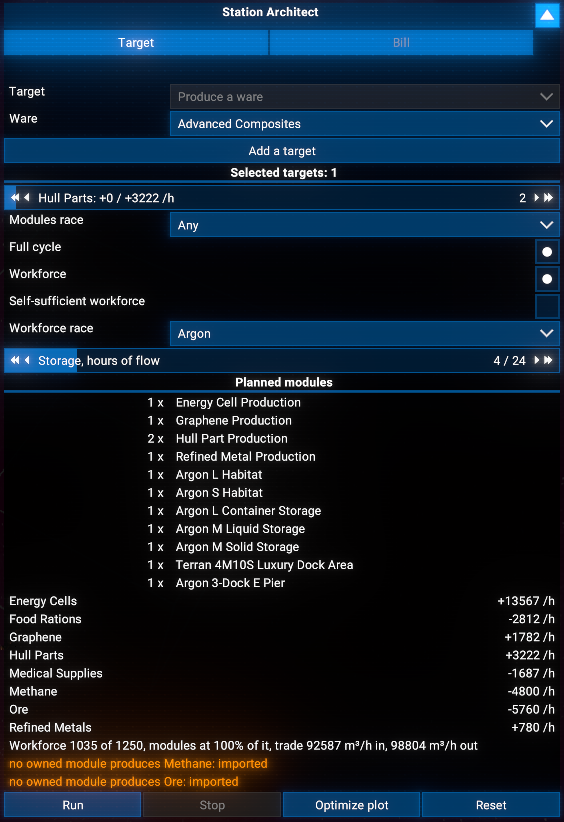
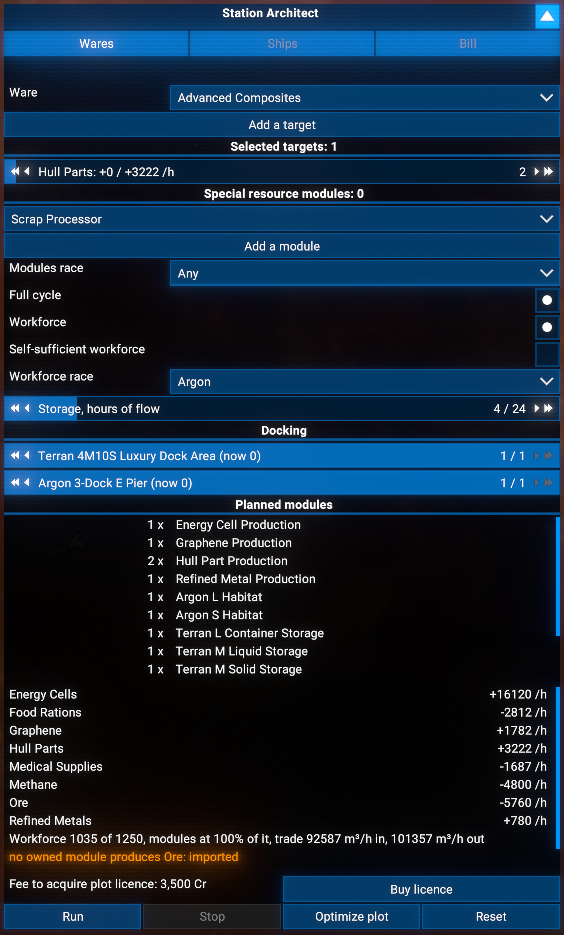
docs: README for 1.20 with screenshots retaken on 9.00
- Usage rewritten for the Wares, Ships and Bill tabs: build module counts,
  ships and resupplies per hour per size, the Docking sliders, and a Run
  section with the turns and the placement restart
- Features, Limitations and the Extra Data API 1.02 requirement updated
- changelog entry renamed to 1.20, with Added and Changed lines for the
  Ships tab, the Docking section, the placement restart and the faster
  layout search
- screenshots retaken on 9.00: map context menu, map dialog, Wares tab
  (still panel_target.png), Bill tab, licence offer, run progress and the
  build menu during a run; new panel_ships.png for the Ships tab

diff --git a/README.md b/README.md
@@ -4,12 +4,13 @@ Tell the build menu what your station should produce or build: this extension wo
 
 ## Features
 
-- **Target planner**: say what the station should make (a ware, or ships to build or repair), not which modules; several targets in one plan.
+- **Target planner**: say what the station should make, not which modules: wares on the **Wares** tab, ships to build or resupply per hour on the **Ships** tab; several targets in one plan.
 - **Compact layout**: production, storage and habitats packed tight on connection modules; build modules on the sides with clear approach lanes; docks and piers outward.
 - **Full cycle and workforce**: optionally every intermediate ware down to raw resources and energy, habitats for the workforce, and its food and medicine.
-- **Read from the game**: production rates, sunlight and workforce bonuses, module sizes, docking bays and ship build times; docks sized for the planned traffic.
+- **Read from the game**: production rates, sunlight and workforce bonuses, module sizes, docking bays, ship build times and the production lines of every build module; docks sized for the planned traffic.
+- **Docking**: the dock areas and piers the planned trade needs, each count on a slider you can lower.
 - **Preview first**: modules, each ware's balance per hour, workforce and warnings before anything is placed.
-- **Existing stations**: reads what a station makes and fills any shortfall.
+- **Existing stations**: reads what a station makes and fills any shortfall, its docks included.
 - **From the map**: right-click empty space, **Plan a station here**, and the build menu opens with the run started.
 - **Bill route**: a manual list of modules and counts, placed the same way.
 - **Plot licence**: shows the plot size and price where the plot costs money; **Optimize plot** shrinks it afterwards.
@@ -23,7 +24,7 @@ Tell the build menu what your station should produce or build: this extension wo
 - Verified on the 8.00 and 9.00 builds of the game. On a build it does not recognise, the panel says the editor is not reachable and Run stays off; nothing else in the build menu changes.
 - The plot is limited to the game's 20 km: a layout that needs more is refused before anything is placed.
 - Ship build times assume the station has its build drones; a shipyard without them builds several times slower than planned.
-- A module that fits nowhere is reported as failed, never silently dropped.
+- A module the game's editor refuses is never dropped silently: the placement starts over once, and a second refusal removes every module placed.
 
 ## Requirements
 
@@ -40,7 +41,7 @@ Tell the build menu what your station should produce or build: this extension wo
 - **Lua Log API**: Version **1.00** or higher by [Chem O`Dun](https://next.nexusmods.com/profile/ChemODun/mods?gameId=2659).
   - Available on Steam: [Lua Log API](https://steamcommunity.com/sharedfiles/filedetails/?id=3823580916)
   - Available on Nexus Mods: [Lua Log API](https://www.nexusmods.com/x4foundations/mods/2473)
-- **Extra Data API**: Version **1.00** or higher by [Chem O`Dun](https://next.nexusmods.com/profile/ChemODun/mods?gameId=2659).
+- **Extra Data API**: Version **1.02** or higher by [Chem O`Dun](https://next.nexusmods.com/profile/ChemODun/mods?gameId=2659).
   - Available on Steam: [Extra Data API](https://steamcommunity.com/sharedfiles/filedetails/?id=3825599643)
   - Available on Nexus Mods: [Extra Data API](https://www.nexusmods.com/x4foundations/mods/2519)
 
@@ -55,28 +56,44 @@ Or you can do it via the Nexus Mods - [Station Architect](https://www.nexusmods.
 
 ## Usage
 
-Open the build menu of one of your stations. The Station Architect panel sits under the menu's title bar; expand it to plan. It has two tabs: **Target** and **Bill**.
+Open the build menu of one of your stations. The Station Architect panel sits under the menu's title bar; expand it to plan. It has three tabs: **Wares**, **Ships** and **Bill**. Wares and Ships edit one target, so one plan can make wares and build ships; the options and the docking under them are shared.
 
-### Target
+### Wares
 
-1. Pick the kind of target (**Produce a ware** or **Build or maintain ships**), then the ware or the build module, and press **Add a target**. Each added target gets a slider for its number of production or build modules; on an existing station a slider starts at what the station already has, and releasing it at that lowest value removes the target.
-   **Special resource modules** (Scrap Processors, fed by tugs rather than by trade): pick one and press **Add a module**; its slider sets how many the station has. With **Full cycle** their scrap metal feeds scrap recycling modules that make your target wares, and only the rest comes from regular production modules (a surplus is sold); without it the scrap metal is sold. Tugs bring their raw scrap straight to them, so it adds no docks, piers or storage.
+1. Pick a ware and press **Add a target**. Each added target gets a slider for its number of production modules, with the ware's net per hour now and planned; on an existing station a slider starts at what the station already has, and releasing it at that lowest value removes the target.
+   **Special resource modules** (Scrap Processors, fed by tugs rather than by trade) need **Full cycle**: pick one and press **Add a module**; its slider sets how many the station has. Their scrap metal feeds scrap recycling modules that make your target wares and your ships' wares, and only the rest comes from regular production modules (a surplus is sold). Tugs bring their raw scrap straight to them, so it adds no docks, piers or storage.
 2. Set the options: **Modules race**, **Full cycle**, **Workforce**, **Self-sufficient workforce**, **Workforce race** and **Storage, hours of flow** (how many hours of each ware's flow the storage holds).
-3. Check the preview: the planned modules, each ware's net per hour now and planned, the workforce and trade line, and any warning.
+3. **Docking** has one slider for dock areas and one for piers, from what the station has up to what the planned trade needs. Both start at the top; a lowered one scales along when the target changes, and back at the top it follows the need again. On an existing station they show without a target too, sized for the station's own trade.
+4. Check the preview: the planned modules, each ware's net per hour now and planned, the workforce and trade line, and any warning.
 
-![The Target tab: two Hull Part Production modules with the full cycle and the workforce](docs/images/panel_target.png)
+![The Wares tab: two Hull Part Production modules with the full cycle and the workforce](docs/images/panel_target.png)
 
-4. Press **Run**. The run first finds a layout. Where the plot costs money, it then shows the plot size it needs and the licence price, and places nothing until you press **Buy licence**; **Cancel** ends the run.
+### Ships
+
+Pick a build module from your blueprints, a fabrication bay or a maintenance bay, and press **Add a module**. Every build module kind the station has or you added gets a slider of its count, starting at what the station has; an added kind released at 0 is removed.
+
+- Under a fabrication bay, one slider per ship size it builds sets the **ships per hour**, up to what those bays can build. It starts at that top, the bays' full capacity: lower it to the ships you expect to sell. Sizes that share a bay share its time, so lowering one raises the other's top.
+- Under a maintenance bay, one slider per ship size sets the **resupplies per hour** (restocking a ship's ammunition and units). It starts at a tenth of what the bays manage.
+- **now** on a slider is what the station's bays are working on at the moment, per hour.
+
+The plan adds the wares those ships and resupplies use, their production chain under **Full cycle**, and the storage and docks for that flow. The options and the Docking sliders are the ones of the Wares tab.
+
+![The Ships tab: an S/M Ship Fabrication Bay at 10 S and 5 M ships per hour, and an L Ship Maintenance Bay](docs/images/panel_ships.png)
+
+### Run
+
+1. Press **Run**. The run first finds a layout. Where the plot costs money, it then shows the plot size it needs and the licence price, and places nothing until you press **Buy licence**; **Cancel** ends the run.
 
 ![A run waiting for the plot licence](docs/images/panel_licence.png)
 
-5. The run places the modules one after another; the panel shows the progress, and **Stop** halts it after the current module. The menu's lists are rebuilt once when the run ends, not after every module.
+2. The run places the modules one after another, in turns from the bottom up: the station works after its first turn and every turn adds output, its storage and production chain from energy up, the final product last, then the dock areas and piers its trade needs. The panel shows the progress and the turn, and **Stop** halts the run after the current module. The menu's lists are rebuilt once when the run ends, not after every module.
 
 ![A run in progress](docs/images/panel_running.png)
 
 ![The build menu during a run: the new modules appear on the station one by one](docs/images/build_menu_run.png)
 
-6. When the run ends the panel folds to its result (placed, failed). Check the plan, change what you like by hand, and press **Confirm module changes** as usual. **Optimize plot** fits the plot to the planned modules, so a plot the run grew is not paid larger than needed. **Reset** starts the target over from what the station has.
+3. If the game's editor still refuses a module after a few retries, the run removes every module it placed and starts the placement over, once. A second refusal removes everything again, and the folded panel names the module.
+4. When the run ends the panel folds to its result (placed, failed). Check the plan, change what you like by hand, and press **Confirm module changes** as usual. **Optimize plot** fits the plot to the planned modules, so a plot the run grew is not paid larger than needed. **Reset** starts the target over from what the station has.
 
 ### From the map
 
@@ -84,7 +101,7 @@ Right-click empty space in a sector on the map and choose **Plan a station here*
 
 ![The map's context menu on empty space](docs/images/map_context_menu.png)
 
-The dialog shows the same target form, plus **Preset for all station modules** (the loadout of the new modules).
+The dialog has the same **Wares** and **Ships** tabs, plus **Preset for all station modules** (the loadout of the new modules).
 
 ![The map dialog for a new station](docs/images/map_dialog.png)
 
@@ -122,9 +139,19 @@ In the game's Extension Options, the Station Architect page has a Debug Level se
 
 ## Changelog
 
-### [1.11] - 2026-11-??
+### [1.20] - 2026-11-??
 
+- Added
+  - **Ships** tab: any build module with its count slider, and per ship size a ships per hour or resupplies per hour slider
+  - **Docking** section: dock area and pier count sliders
+  - A module the editor keeps refusing restarts the placement once; a second refusal removes every placed module
 - Changed
+  - The Target tab is now the **Wares** tab, in the map dialog too
+  - Ship builds and their supply chain follow the ships per hour, not the build modules' full capacity
+  - Ship build times from each hull's High loadout, with one ship per production line of a build module
+  - Special resource modules only with **Full cycle**, and their scrap metal feeds the ships' wares too
+  - An existing station without a target gets the docks its own trade needs
+  - Faster layout search
   - Placement order, turn by turn from the bottom up, so the station works after its first turn and each turn adds output: storage and the production chain from energy up, the final product last
   - A new station grows from its first pier: one pier and one dock area open the first turn; every turn ends with the piers and dock areas its trade needs
   - Habitats and the modules that only feed them come after 40 % of the turns, spread evenly over the rest
